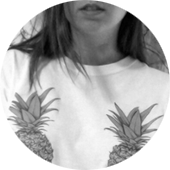
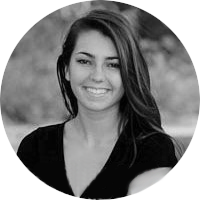
about us section float change

diff --git a/app/ui/css/styles.min.css b/app/ui/css/styles.min.css
@@ -1,4 +1,4 @@
-.header-main{position:absolute;top:50%;transform:translateY(-50%)}body{width:100vw;height:100vh}.header{*zoom:1}.header:after{clear:both}.header:after,.header:before{display:table;content:" "}*{box-sizing:border-box}body{font-family:Lato,sans-serif;padding:0;margin:0}h1{font-weight:100;font-size:3em;margin:0 0 .5em}p{line-height:1.5em;font-size:1.2em}.right-sec{padding:1em;width:100%}@media screen and (min-width:1024px){.right-sec{width:50%;float:right}}@media screen and (min-width:1600px){.right-sec{width:66.6666%}}.sidebar{width:100%;padding-top:4em}@media screen and (min-width:768px){.sidebar{padding-top:0}}@media screen and (min-width:1024px){.sidebar{width:50%;float:left}}@media screen and (min-width:1600px){.sidebar{width:33.3333%}}.nav{padding:1em;width:100%;position:fixed;top:0;text-align:center;background-color:#fff;border-bottom:1px solid #f1f1f1;overflow-x:scroll;white-space:nowrap}@media screen and (min-width:768px){.nav{background-color:transparent;border:none;position:static;width:50%;float:left;text-align:left;overflow-x:auto;white-space:normal}}@media screen and (min-width:1024px){.nav{position:fixed;top:0;left:0;width:auto}}.nav-link{color:#000;font-size:1.5em;display:inline-block;text-decoration:none;margin-right:1em}.nav-link:last-child{margin-right:0}@media screen and (min-width:768px){.nav-link{margin-right:0;display:block;text-align:right;font-size:2em;margin-bottom:1em}}@media screen and (min-width:1024px){.nav-link{display:inline;text-align:left;font-size:1.5em;margin-right:1em}}.nav-link:hover{text-decoration:underline}.header{width:100%;padding:2em 3em;text-align:center;position:relative}@media screen and (min-width:768px){.header{width:50%;float:left;text-align:left;position:static;padding:1em}}@media screen and (min-width:1024px){.header{position:fixed;bottom:0;left:0;width:auto}}.header-main{font-size:10vw;font-weight:100;width:50%;right:0;text-align:left}@media screen and (min-width:768px){.header-main{font-size:4.5em;margin:0 0 .3em;width:auto;position:static;transform:none}}@media screen and (min-width:1024px){.header-main{margin-left:-.15em}}.header-sub{font-size:1.5em;margin:0 0 1.5em;letter-spacing:.3em;display:none}@media screen and (min-width:768px){.header-sub{display:block}}.header-img{float:left;width:50%;padding-right:2.5em}@media screen and (min-width:768px){.header-img{float:none;width:auto;padding-right:0}}.portfolio{column-gap:1em;column-count:3;padding:0}.portfolio-img{width:100%;border:1px solid #f1f1f1;margin:.5em 0}
+.header-main{position:absolute;top:50%;transform:translateY(-50%)}body{width:100vw;height:100vh}.header{*zoom:1}.header:after{clear:both}.header:after,.header:before{display:table;content:" "}*{box-sizing:border-box}body{font-family:Lato,sans-serif;padding:0;margin:0}h1{font-weight:100;font-size:3em;margin:0 0 .5em}p{line-height:1.5em;font-size:1.2em}.right-sec{padding:1em;width:100%}@media screen and (min-width:768px){.right-sec{float:left}}@media screen and (min-width:1024px){.right-sec{width:50%;float:right}}@media screen and (min-width:1600px){.right-sec{width:66.6666%}}.sidebar{width:100%;padding-top:4em}@media screen and (min-width:768px){.sidebar{padding-top:0}}@media screen and (min-width:1024px){.sidebar{width:50%;float:left}}@media screen and (min-width:1600px){.sidebar{width:33.3333%}}.nav{padding:1em;width:100%;position:fixed;top:0;text-align:center;background-color:#fff;border-bottom:1px solid #f1f1f1;overflow-x:scroll;white-space:nowrap}@media screen and (min-width:768px){.nav{background-color:transparent;border:none;position:static;width:50%;float:left;text-align:left;overflow-x:auto;white-space:normal}}@media screen and (min-width:1024px){.nav{position:fixed;top:0;left:0;width:auto}}.nav-link{color:#000;font-size:1.5em;display:inline-block;text-decoration:none;margin-right:1em}.nav-link:last-child{margin-right:0}@media screen and (min-width:768px){.nav-link{margin-right:0;display:block;text-align:right;font-size:2em;margin-bottom:1em}}@media screen and (min-width:1024px){.nav-link{display:inline;text-align:left;font-size:1.5em;margin-right:1em}}.nav-link:hover{text-decoration:underline}.header{width:100%;padding:2em 3em;text-align:center;position:relative}@media screen and (min-width:768px){.header{width:50%;float:left;text-align:left;position:static;padding:1em}}@media screen and (min-width:1024px){.header{position:fixed;bottom:0;left:0;width:auto}}.header-main{font-size:10vw;font-weight:100;width:50%;right:0;text-align:left}@media screen and (min-width:768px){.header-main{font-size:4.5em;margin:0 0 .3em;width:auto;position:static;transform:none}}@media screen and (min-width:1024px){.header-main{margin-left:-.15em}}.header-sub{font-size:1.5em;margin:0 0 1.5em;letter-spacing:.3em;display:none}@media screen and (min-width:768px){.header-sub{display:block}}.header-img{float:left;width:50%;padding-right:2.5em;max-width:200px}@media screen and (min-width:768px){.header-img{float:none;width:auto;padding-right:0}}.portfolio{column-gap:1em;column-count:3;padding:0}.portfolio-img{width:100%;border:1px solid #f1f1f1;margin:.5em 0}
 
 /*!
  * baguetteBox.js

diff --git a/app/ui/sass/layout/_global.scss b/app/ui/sass/layout/_global.scss
@@ -19,6 +19,9 @@ p{
 .right-sec {
   padding: 1em;
   width: 100%;
+  @include breakpoint(screen-sm) {
+    float: left;
+  }
   @include breakpoint(screen-lg) {
     width: 50%;
     float:right;

diff --git a/app/ui/sass/layout/_sidebar.scss b/app/ui/sass/layout/_sidebar.scss
@@ -118,6 +118,7 @@
     float: left;
     width: 50%;
     padding-right: 2.5em;
+    max-width: 200px;
     @include breakpoint(screen-sm) {
       float: none;
       width: auto;
